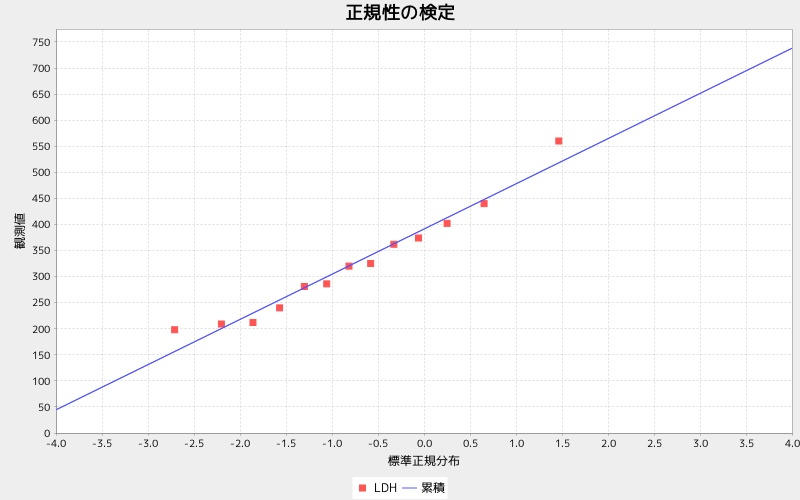
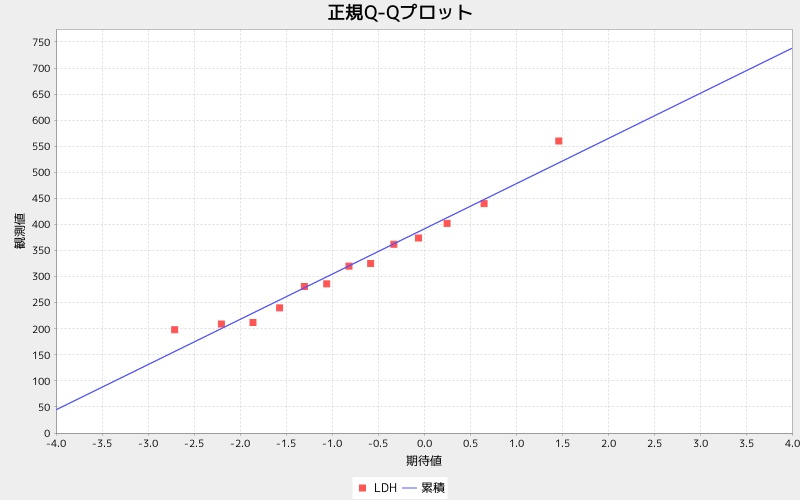
Add files via upload

Changed region(s): [[0.4062, 0.0, 0.5938, 0.06], [0.4688, 0.9, 0.5938, 0.93]]

diff --git a/sample/samplez.rb b/sample/samplez.rb
@@ -14,6 +14,12 @@ RSpec.describe Num4NormalityLib do
             Num4NormalityLib.ksplot("LDH", xi)
         ).to is_exist("ksplot.jpeg")
     end
+    it '#qqksplot' do
+        xi = [320, 240, 402, 325, 440, 286, 362, 281, 560, 212, 198, 209, 374]
+        expect(
+            Num4NormalityLib.qqksplot("LDH", xi)
+        ).to is_exist("qqksplot.jpeg")
+    end
     it '#kstest' do
         xi = [320, 240, 402, 325, 440, 286, 362, 281, 560, 212, 198, 209, 374]
         expect(
